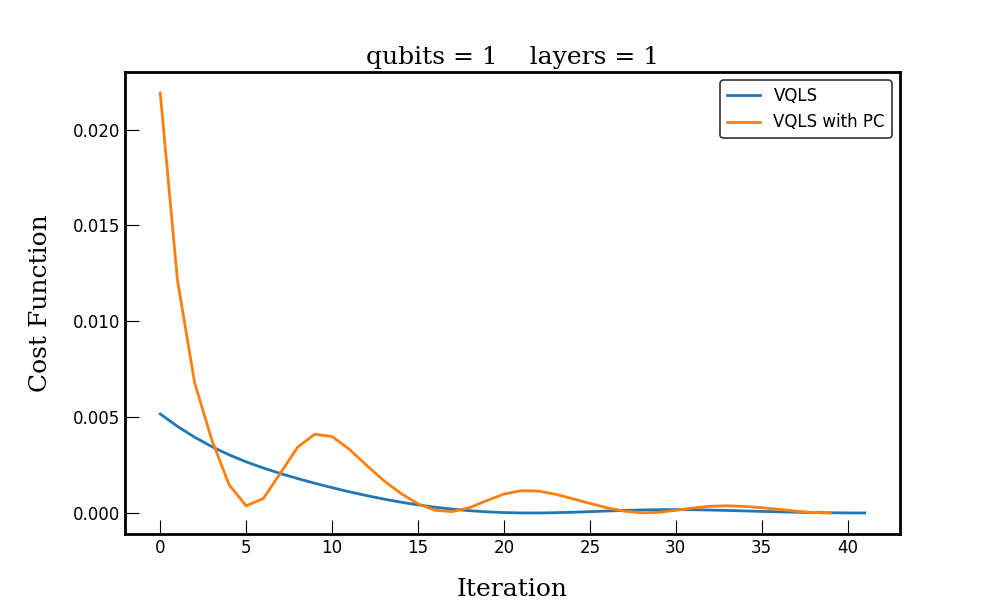
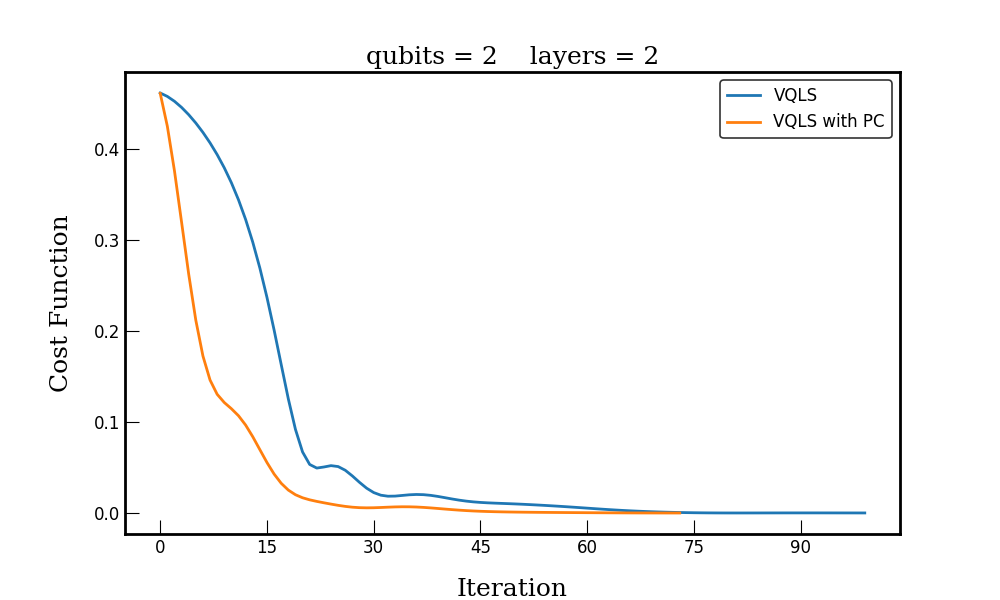
modified vqls_dnn

diff --git a/src/solver/quantum/vqls/vqls_dnn.py b/src/solver/quantum/vqls/vqls_dnn.py
@@ -1,6 +1,73 @@
 from src.solver.quantum.vqls.vqls import VQLS
+import torch.nn as nn
+import functools
+import torch
+import pennylane.numpy as np
 
 
 class DeepVQLS(VQLS):
     def __init__(self):
         super().__init__()
+
+
+class HybridNeuralNetwork(nn.Module):
+
+    def __init__(self, qnode, nqubits, nlayers, ninputs, npaulis):
+        super().__init__()
+
+        # number of qubits & layers & inputs & paulis
+        self.nqubits = nqubits
+        self.nlayers = nlayers
+        self.ninputs = ninputs
+        self.npaulis = npaulis
+
+        # classical layers
+        self.lin1 = nn.Linear(self.ninputs, 8)
+        self.lin2 = nn.Linear(8, 8)
+        self.lin3 = nn.Linear(8, self.nqubits)
+        self.relu = nn.ReLU()
+        self.tanh = nn.Tanh()
+
+        # new
+        self.qnode = qnode
+        self.qlayers = {}
+        it = 0
+        for l in range(self.npaulis):
+            for lp in range(self.npaulis):
+                for part in ["Re", "Im"]:
+                    # setattr(self, f"xx_{it}", qml.qnn.TorchLayer(self.qnode[(l, lp, -1, part)], {"weights": (self.nqubits)}))
+                    setattr(self, f"xx_{it}", self.qnode[(l, lp, -1, part)])
+                    self.qlayers[(l, lp, -1, part)] = getattr(self, f"xx_{it}")
+                    it += 1
+                    for j in range(self.nqubits):
+                        # setattr(self, f"xx_{it}", qml.qnn.TorchLayer(self.qnode[(l, lp, j, part)], {"weights": (self.nqubits)}))
+                        setattr(self, f"xx_{it}", self.qnode[(l, lp, j, part)])
+                        self.qlayers[(l, lp, j, part)] = getattr(self, f"xx_{it}")
+                        it += 1
+
+        # something new
+        init_method = functools.partial(torch.nn.init.uniform_, b=2 * np.pi)
+        self.alpha = torch.nn.Parameter(init_method(torch.Tensor(1, self.ninputs)), requires_grad=True)
+
+    def forward(self, x):
+
+        # neural network architecture
+        y = self.lin1(self.alpha)
+        y = self.tanh(y)
+        y = self.lin2(y)
+        y = self.tanh(y)
+        y = self.lin3(y)
+        # y = self.tanh(y)
+        # y = torch.reshape(y, (self.nqubits,))
+        y = torch.reshape(y, (1, self.nqubits))
+
+        # use output of the DNN for every VQC
+        outputs = {}
+        for l in range(self.npaulis):
+            for lp in range(self.npaulis):
+                for part in ["Re", "Im"]:
+                    outputs[(l, lp, -1, part)] = self.qlayers[(l, lp, -1, part)](y)
+                    for j in range(self.nqubits):
+                        outputs[(l, lp, j, part)] = self.qlayers[(l, lp, j, part)](y)
+
+        return outputs, y

diff --git a/examples/example_vqls_preconditioned.py b/examples/example_vqls_preconditioned.py
@@ -12,17 +12,17 @@ from src.linalg.preconditioned_conjugate_gradient import mat_inv_lemma
 np.random.seed(42)
 
 # number of qubits & layers
-nqubits = 1
-nlayers = 1
+nqubits = 2
+nlayers = 2
 
 # maximum number of iterations
 maxiter = 100
 
 # random symmetric positive definite matrix
-A0, b0 = get_random_ls(nqubits, easy_example=False)
+A0, b0 = get_random_ls(nqubits, easy_example=True)
 
-L, _ = cholesky(A=A0, p=2, rnd_idx=True)  # preconditioning matrix
-P = L[:, :2]
+L, _ = cholesky(A=A0, p=2**nqubits, rnd_idx=True)  # preconditioning matrix
+P = L[:, :2**nqubits]
 
 # compute inverse using matrix inversion lemma
 invP = mat_inv_lemma(A=np.eye(2**nqubits) * 0.1**2,
@@ -32,6 +32,7 @@ invP = mat_inv_lemma(A=np.eye(2**nqubits) * 0.1**2,
 
 A0p = invP @ A0
 b0p = invP @ b0
+
 
 print(np.linalg.cond(A0))
 print(np.linalg.cond(A0p))
@@ -43,7 +44,7 @@ solver2 = VQLS()
 solver2.set_lse(A=A0p, b=b0p)
 
 # choose optimizer, ansatz, state preparation, backend
-optim_ = AdamQML()
+optim_ = NesterovMomentumQML()
 ansatz_ = StrongEntangling(nqubits=nqubits, nlayers=nlayers)
 prep_ = MottonenStatePrep(wires=range(nqubits))
 backend_ = DefaultQubit(wires=nqubits + 1)

diff --git a/src/utils/utils.py b/src/utils/utils.py
@@ -84,7 +84,8 @@ def get_paulis(mat):
       """
 
     # decompose
-    pauli_matrix = qml.pauli_decompose(mat, check_hermitian=True, pauli=False)
+    # pauli_matrix = qml.pauli_decompose(mat, check_hermitian=True, pauli=False)
+    pauli_matrix = qml.pauli_decompose(mat, check_hermitian=False, pauli=False)
 
     # get coefficients and operators
     coeffs = pauli_matrix.coeffs

diff --git a/examples/example_vqls_optimizers.py b/examples/example_vqls_optimizers.py
@@ -10,10 +10,10 @@ from src.utils.plotting import plot_costs
 np.random.seed(42)
 
 # number of qubits & layers
-nqubits = 1
+nqubits = 2
 nlayers = 2
 
-maxiter = 5
+maxiter = 100
 
 # init
 solver = VQLS()
